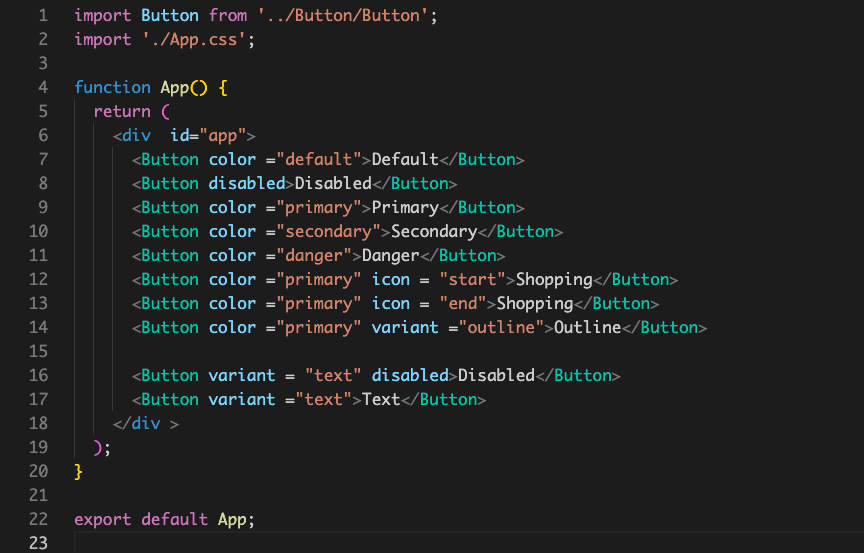
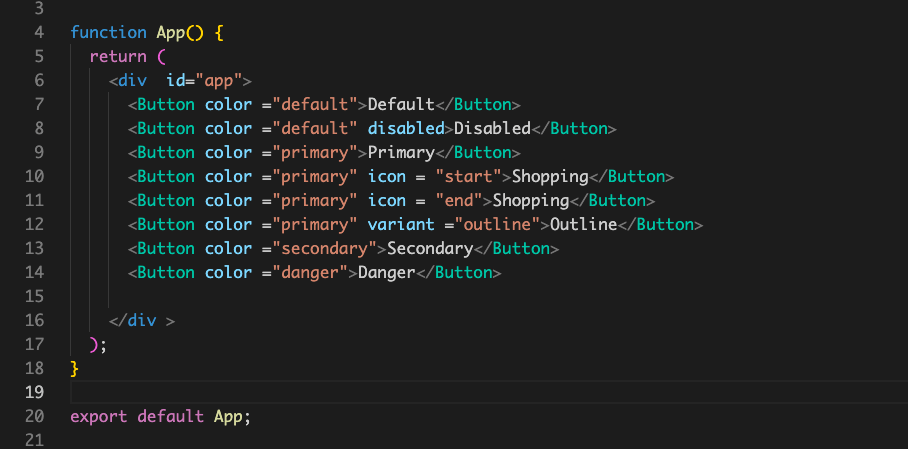
optimization and code review

diff --git a/public/index.html b/public/index.html
@@ -5,40 +5,12 @@
     <link rel="icon" href="%PUBLIC_URL%/favicon.ico" />
     <meta name="viewport" content="width=device-width, initial-scale=1" />
     <meta name="theme-color" content="#000000" />
-    <meta
-      name="description"
-      content="Web site created using create-react-app"
-    />
-    <link rel="apple-touch-icon" href="%PUBLIC_URL%/logo192.png" />
-    <!--
-      manifest.json provides metadata used when your web app is installed on a
-      user's mobile device or desktop. See https://developers.google.com/web/fundamentals/web-app-manifest/
-    -->
-    <link rel="manifest" href="%PUBLIC_URL%/manifest.json" />
-    <!--
-      Notice the use of %PUBLIC_URL% in the tags above.
-      It will be replaced with the URL of the `public` folder during the build.
-      Only files inside the `public` folder can be referenced from the HTML.
-
-      Unlike "/favicon.ico" or "favicon.ico", "%PUBLIC_URL%/favicon.ico" will
-      work correctly both with client-side routing and a non-root public URL.
-      Learn how to configure a non-root public URL by running `npm run build`.
-    -->
     <link rel="stylesheet" href="https://use.fontawesome.com/releases/v5.15.3/css/all.css" integrity="sha384-SZXxX4whJ79/gErwcOYf+zWLeJdY/qpuqC4cAa9rOGUstPomtqpuNWT9wdPEn2fk" crossorigin="anonymous">
-    <title>React App</title>
+    <title>Button component</title>
   </head>
   <body>
-    <noscript>You need to enable JavaScript to run this app.</noscript>
+    
     <div id="root"></div>
-    <!--
-      This HTML file is a template.
-      If you open it directly in the browser, you will see an empty page.
-
-      You can add webfonts, meta tags, or analytics to this file.
-      The build step will place the bundled scripts into the <body> tag.
-
-      To begin the development, run `npm start` or `yarn start`.
-      To create a production bundle, use `npm run build` or `yarn build`.
-    -->
+ 
   </body>
 </html>

diff --git a/src/components/Button/Button.css b/src/components/Button/Button.css
@@ -33,6 +33,12 @@ button img{
 .default:focus{
     background-color: var(--btn-default-bg-hover);
 }
+.default.disabled{
+    color: var(--btn-disabled-color);
+    background-color: var(--btn-default-bg);
+    box-shadow: none;
+    cursor: unset;
+}
 .primary{
     color: var(--btn-primary-color);
     background: var(--btn-primary-bg);
@@ -60,8 +66,6 @@ button img{
     background: var(--btn-danger-bg-hover);
 }
 
-
-
 .outline{
     background-color : var(--btn-outline-bg);
     box-shadow: var(--btn-outline-shadow);
@@ -73,23 +77,3 @@ button img{
     background: var(--btn-outline-bg-hover);
 }
 
-.text{
-    background-color: transparent;
-    box-shadow: none;
-    border: none;
-    color: var(--btn-outline-color);
-}
-.text:hover,
-.text:focus{
-    background: var(--btn-outline-bg-hover);
-}
-.disabled{
-    color: var(--btn-disabled-color);
-    background-color: var(--btn-default-bg);
-    box-shadow: none;
-    cursor: unset;
-    
-}
-.disabled.text{
-    background-color: transparent;
-}

diff --git a/src/components/App/App.js b/src/components/App/App.js
@@ -5,16 +5,14 @@ function App() {
   return (
     <div  id="app">
       <Button color ="default">Default</Button>
-      <Button disabled>Disabled</Button>
+      <Button color ="default" disabled>Disabled</Button>
       <Button color ="primary">Primary</Button>
-      <Button color ="secondary">Secondary</Button>
-      <Button color ="danger">Danger</Button>
       <Button color ="primary" icon = "start">Shopping</Button>
       <Button color ="primary" icon = "end">Shopping</Button>
       <Button color ="primary" variant ="outline">Outline</Button>
-    
-      <Button variant = "text" disabled>Disabled</Button>
-      <Button variant ="text">Text</Button>
+      <Button color ="secondary">Secondary</Button>
+      <Button color ="danger">Danger</Button>
+
     </div >
   );
 }

diff --git a/src/components/Button/Button.js b/src/components/Button/Button.js
@@ -4,7 +4,7 @@ export default function Button({ variant, disabled, color, icon, children = "Def
     
     return (
         <button 
-            className = {(variant ? variant : "") + " " + (color ? color : "") +  (disabled ? "disabled" : "")}   
+            className = {(variant ? variant : "") + " " + (color ? color : "") + " " + (disabled ? "disabled" : "")}   
         >
             {icon === "start" && <span><i class="fas fa-shopping-cart"></i></span>}
             <span>{children}</span>

diff --git a/src/index.css b/src/index.css
@@ -44,6 +44,7 @@ body{
   display: flex;
   justify-content: center;
   align-items: center;
+  background-color: rgb(41, 41, 41);
 
 }
 
